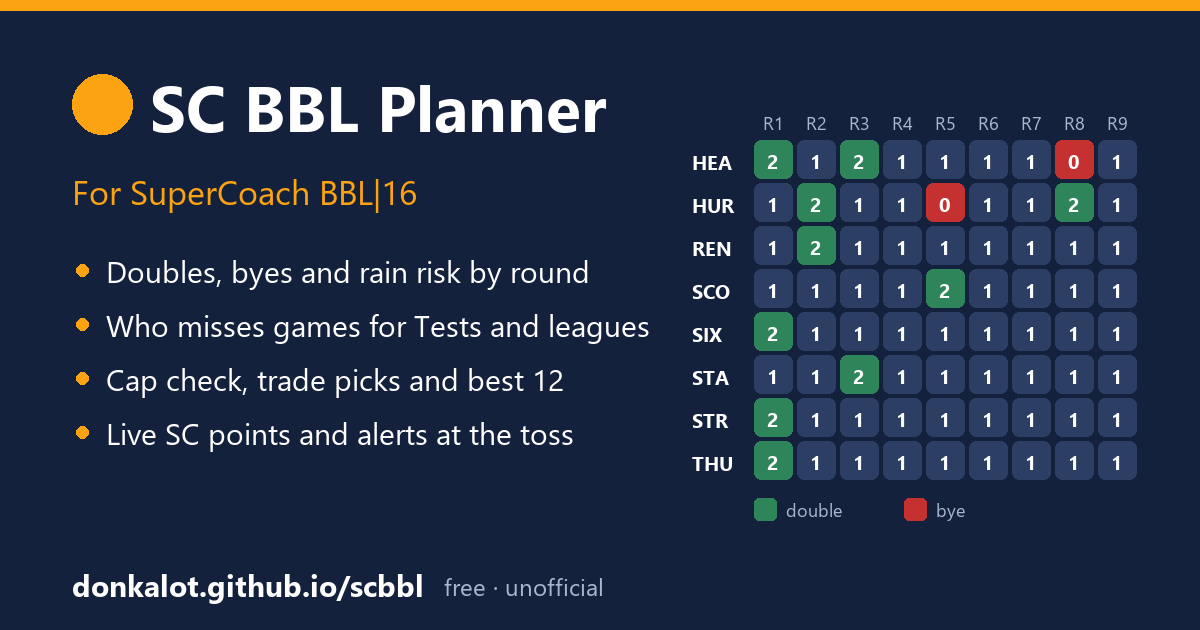
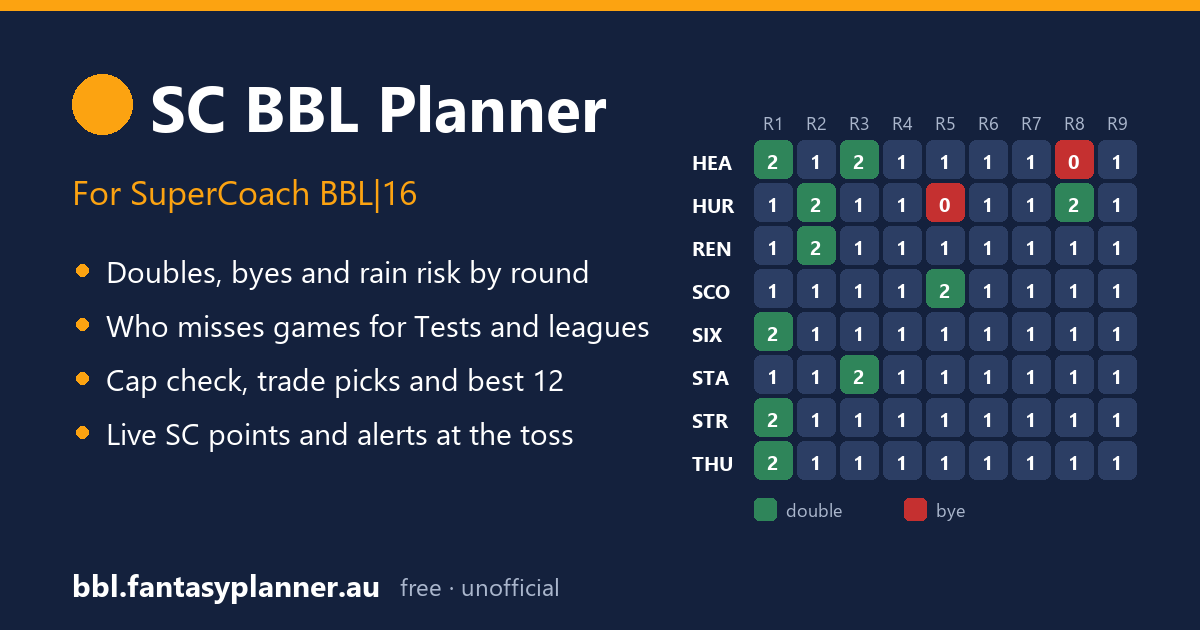
Move the site to bbl.fantasyplanner.au
GitHub Pages redirects the old github.io links. The notifier reads data from the new address
and accepts subscriptions from both origins, so pre-move subscriptions can still be changed.

Changed region(s): [[0.0617, 0.9048, 0.4933, 0.9651]]

diff --git a/index.html b/index.html
@@ -8,15 +8,15 @@
 <meta property="og:title" content="SC BBL Planner">
 <meta property="og:description" content="Free SuperCoach BBL|16 planner: doubles and byes, availability, trades and best 12, rain risk, live SC points and XI alerts.">
 <meta property="og:type" content="website">
-<meta property="og:url" content="https://donkalot.github.io/scbbl/">
-<meta property="og:image" content="https://donkalot.github.io/scbbl/og-image.png">
+<meta property="og:url" content="https://bbl.fantasyplanner.au/">
+<meta property="og:image" content="https://bbl.fantasyplanner.au/og-image.png">
 <meta property="og:image:width" content="1200">
 <meta property="og:image:height" content="630">
 <meta property="og:image:alt" content="SC BBL Planner, with the BBL|16 doubles and byes grid">
 <meta name="twitter:card" content="summary_large_image">
 <meta name="twitter:title" content="SC BBL Planner">
 <meta name="twitter:description" content="Free SuperCoach BBL|16 planner: doubles and byes, availability, trades and best 12, rain risk, live SC points and XI alerts.">
-<meta name="twitter:image" content="https://donkalot.github.io/scbbl/og-image.png">
+<meta name="twitter:image" content="https://bbl.fantasyplanner.au/og-image.png">
 <meta name="theme-color" content="#14213d">
 <link rel="manifest" href="manifest.json">
 <link rel="icon" href="icon.svg" type="image/svg+xml">

diff --git a/worker/src/subs.js b/worker/src/subs.js
@@ -106,5 +106,5 @@ export async function handle(req, env, fetchFn = fetch, now = Date.now()) {
     const [status, out] = path === '/subscribe' ? await subscribe(body, env, fetchFn, now) : await unsubscribe(body, env);
     return reply(status, out);
   }
-  return new Response('scbbl notifier. Turn on match alerts on the Matches page of https://donkalot.github.io/scbbl/\n', { status: path === '/' ? 200 : 404 });
+  return new Response('scbbl notifier. Turn on match alerts on the Matches page of https://bbl.fantasyplanner.au/\n', { status: path === '/' ? 200 : 404 });
 }

diff --git a/app.js b/app.js
@@ -1250,7 +1250,7 @@ location.href=${JSON.stringify(site)}+'#/team?r='+((d.players[0]||{}).round||'')
   const PAGES = ['players', 'player', 'planner', 'team', 'availability', 'matches', 'match', 'roles'];
   let uncounted = [];
   function countVisit(page) {
-    if (location.hostname !== 'donkalot.github.io') return;
+    if (location.hostname !== 'bbl.fantasyplanner.au') return;
     const path = '/' + page;
     if (window.goatcounter && window.goatcounter.count) return window.goatcounter.count({ path });
     uncounted.push(path);

diff --git a/worker/test/push.test.js b/worker/test/push.test.js
@@ -5,7 +5,7 @@ import { handle, subId, PREFIX } from '../src/subs.js';
 import { browser, decrypt, checkVapid, memoryKV, vapidEnv } from './pushkit.js';
 
 const VAPID = await vapidEnv();
-const SITE = 'https://donkalot.github.io';
+const SITE = 'https://bbl.fantasyplanner.au';
 const FCM = 'https://fcm.googleapis.com/fcm/send/abc';
 
 test('encryption reproduces the RFC 8291 section 5 example byte for byte', async () => {

diff --git a/tests/test_smoke.py b/tests/test_smoke.py
@@ -350,18 +350,18 @@ def test_pasted_statsplayers_response_imports_the_team(server, page):
 
 def test_visit_counts_send_the_page_name_only(page):
     def site(route):
-        rel = route.request.url.split('/scbbl/', 1)[1].split('#')[0].split('?')[0] or 'index.html'
+        rel = route.request.url.split('.au/', 1)[1].split('#')[0].split('?')[0] or 'index.html'
         f = ROOT / rel
         if not f.is_file():
             return route.fulfill(status=404, body='')
         route.fulfill(body=f.read_bytes(), content_type={'.js': 'text/javascript', '.json': 'application/json', '.svg': 'image/svg+xml'}.get(f.suffix, 'text/html'))
-    page.route('https://donkalot.github.io/scbbl/**', site)
+    page.route('https://bbl.fantasyplanner.au/**', site)
     held = []
     page.route('https://gc.zgo.at/count.js', lambda r: held.append(r))
     page.route(re.compile(r'https://(api\.open-meteo\.com|apiv2\.cricket\.com\.au)/.*'), lambda r: r.abort())
-    page.goto('https://donkalot.github.io/scbbl/#/team?r=1&sc=98:true,8:vice')
+    page.goto('https://bbl.fantasyplanner.au/#/team?r=1&sc=98:true,8:vice')
     expect(page.locator('#import')).to_be_visible()
-    page.goto('https://donkalot.github.io/scbbl/#/planner')
+    page.goto('https://bbl.fantasyplanner.au/#/planner')
     expect(page.locator('#app h2').first).to_have_text('Doubles and byes')
     assert len(held) == 1, 'the counter script loads once, after the first page'
     held[0].fulfill(content_type='text/javascript', body="""

diff --git a/scripts/make_og_image.py b/scripts/make_og_image.py
@@ -55,8 +55,8 @@ def main():
         y = 250 + i * 54
         d.ellipse([76, y + 14, 88, y + 26], fill=ACCENT)
         d.text((106, y), line, font=font(30), fill=WHITE)
-    d.text((72, H - 66), 'donkalot.github.io/scbbl', font=font(30, True), fill=WHITE)
-    d.text((72 + d.textlength('donkalot.github.io/scbbl', font=font(30, True)) + 20, H - 60),
+    d.text((72, H - 66), 'bbl.fantasyplanner.au', font=font(30, True), fill=WHITE)
+    d.text((72 + d.textlength('bbl.fantasyplanner.au', font=font(30, True)) + 20, H - 60),
            'free · unofficial', font=font(24), fill=MUTED)
 
     rounds, games = grid()

diff --git a/README.md b/README.md
@@ -2,7 +2,7 @@
 
 A planner for SuperCoach BBL. It covers SC points history for every Big Bash player since 2011, a doubles and byes grid for BBL|16, international and overseas-league clashes, automatically detected role changes, rain risk and live SC points during matches.
 
-**Live site:** https://donkalot.github.io/scbbl/
+**Live site:** https://bbl.fantasyplanner.au/
 
 This is an unofficial fan site, not affiliated with SuperCoach, News Corp or Cricket Australia.
 
@@ -44,7 +44,7 @@ Changing `VAPID_PRIVATE` invalidates every subscription; subscribers have to tur
 
 ## Visit counts
 
-The live site counts visits with GoatCounter (`scbbl.goatcounter.com`), with no cookies. It sends only the page name (`/team`, `/planner` and so on), never the rest of the URL, which can hold an imported SuperCoach team. Nothing is counted off `donkalot.github.io`.
+The live site counts visits with GoatCounter (`scbbl.goatcounter.com`), with no cookies. It sends only the page name (`/team`, `/planner` and so on), never the rest of the URL, which can hold an imported SuperCoach team. Nothing is counted off `bbl.fantasyplanner.au`.
 
 ## Data
 
@@ -68,7 +68,7 @@ Cricsheet uses one person id across every competition, so squad players link wit
 
 ## SuperCoach snapshot
 
-SuperCoach can't be fetched by a script, so each round, signed in at supercoach.com.au, save these responses into `curated/sc_raw/`. The quick way is the bookmark on [`tools.html`](https://donkalot.github.io/scbbl/tools.html): click it on any SuperCoach BBL page and it downloads all three files, already named, using your own login. By hand:
+SuperCoach can't be fetched by a script, so each round, signed in at supercoach.com.au, save these responses into `curated/sc_raw/`. The quick way is the bookmark on [`tools.html`](https://bbl.fantasyplanner.au/tools.html): click it on any SuperCoach BBL page and it downloads all three files, already named, using your own login. By hand:
 
 | URL (under `https://www.supercoach.com.au/2026/api/bbl/classic/v1/`) | Save as |
 | --- | --- |
